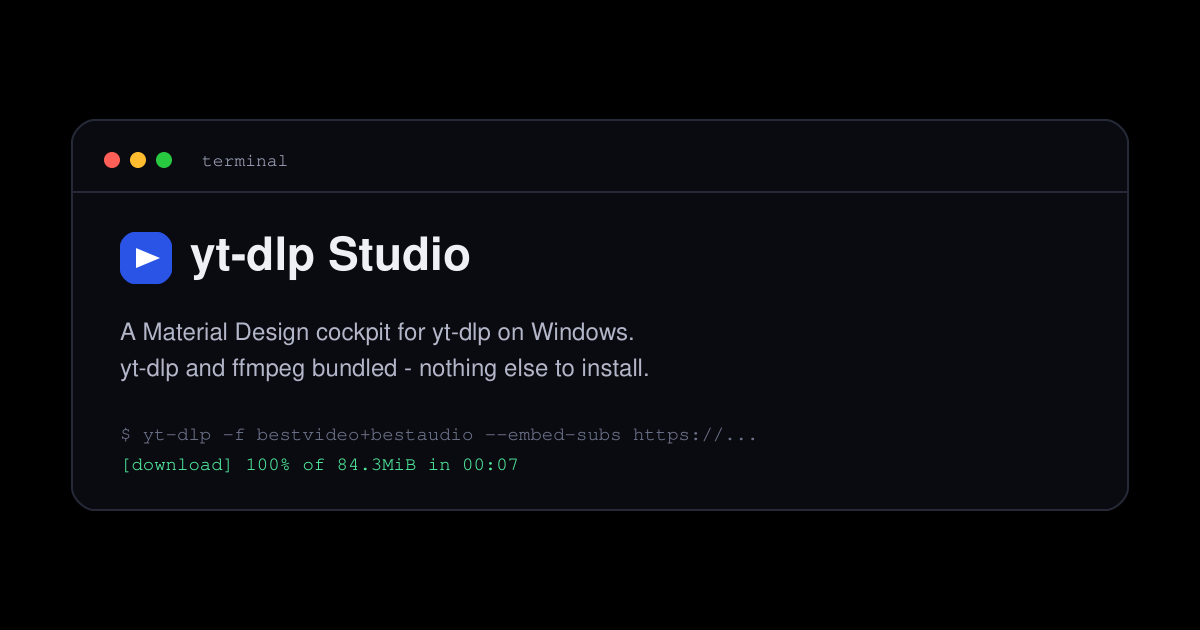
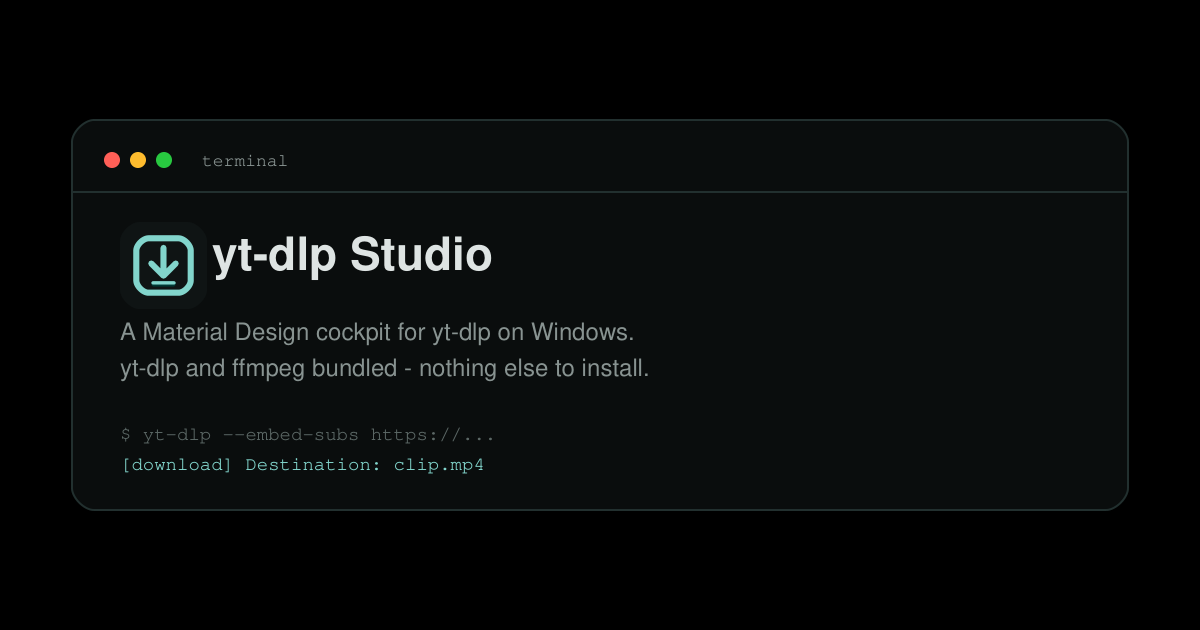
Make the site wear the product's own mark, and drop an invented figure
The embed graphic drew a blue badge with a play triangle while the application
icon is a teal download arrow, so a link preview and the installed app announced
two different products. It now uses the mark's exact geometry read from the
committed master rather than an approximation, and the accent colour across the
whole site follows the application palette in every theme block.

Light mode uses a darker teal of the same hue rather than the raw brand colour,
because white text on the brand teal does not meet contrast on a button. A mark
does not need to pass contrast; a button people have to read does.

The hero terminal also claimed a download of 84.3MiB in seven seconds. Nobody
measured that. It now shows generic output, because an invented benchmark in a
marketing image is still an invented benchmark.

一個產品兩個樣，人哋撳落嚟仲以為裝錯咗嘢。而家個 icon 同個網頁終於一致。
嗰句「七秒download完」係作出嚟嘅，冇人度過，所以拎走。

diff --git a/site/assets/theme.css b/site/assets/theme.css
@@ -15,17 +15,17 @@
   --text-faint: #7b8094;
   --border: #e2e5ee;
   --border-strong: #c9cee0;
-  --accent: #2954e6;
-  --accent-hover: #1f42c4;
+  --accent: #0f766e;
+  --accent-hover: #0b5c56;
   --accent-contrast: #ffffff;
-  --accent-tint: #dfe8ff;
+  --accent-tint: #dcf3f0;
   --ok: #1f8a4c;
   --ok-tint: #e3f6ea;
   --warn: #9a6300;
   --warn-tint: #fff3da;
   --pill-bg: #eef1f8;
   --pill-text: #383e52;
-  --focus-ring: #2954e6;
+  --focus-ring: #0f766e;
   --shadow: 0 1px 2px rgba(20, 22, 31, 0.06), 0 8px 24px rgba(20, 22, 31, 0.08);
   --shadow-sm: 0 1px 2px rgba(20, 22, 31, 0.08);
   --radius-sm: 8px;
@@ -34,7 +34,7 @@
   --toast-bg: #14161f;
   --toast-text: #ffffff;
   --code-green: #3ddc84;
-  --code-blue: #7aa2ff;
+  --code-blue: #82d5cc;
   --code-text: #d7dae6;
   --scrollbar: #c9cee0;
 }
@@ -51,23 +51,23 @@
     --text-faint: #82869c;
     --border: #262a38;
     --border-strong: #343a4d;
-    --accent: #6f8fff;
-    --accent-hover: #8aa4ff;
-    --accent-contrast: #0a0b10;
-    --accent-tint: #1c2646;
+    --accent: #82d5cc;
+    --accent-hover: #9fe0d9;
+    --accent-contrast: #003733;
+    --accent-tint: #16302d;
     --ok: #45cf85;
     --ok-tint: #123423;
     --warn: #e7b756;
     --warn-tint: #3a2c0c;
     --pill-bg: #1d2130;
     --pill-text: #c7cbdc;
-    --focus-ring: #8aa4ff;
+    --focus-ring: #82d5cc;
     --shadow: 0 1px 2px rgba(0, 0, 0, 0.4), 0 8px 24px rgba(0, 0, 0, 0.45);
     --shadow-sm: 0 1px 2px rgba(0, 0, 0, 0.4);
     --toast-bg: #eef0f6;
     --toast-text: #14161f;
     --code-green: #4ee69a;
-    --code-blue: #8fb0ff;
+    --code-blue: #82d5cc;
     --code-text: #cfd3e4;
     --scrollbar: #343a4d;
   }
@@ -84,23 +84,23 @@
   --text-faint: #82869c;
   --border: #262a38;
   --border-strong: #343a4d;
-  --accent: #6f8fff;
-  --accent-hover: #8aa4ff;
-  --accent-contrast: #0a0b10;
-  --accent-tint: #1c2646;
+  --accent: #82d5cc;
+  --accent-hover: #9fe0d9;
+  --accent-contrast: #003733;
+  --accent-tint: #16302d;
   --ok: #45cf85;
   --ok-tint: #123423;
   --warn: #e7b756;
   --warn-tint: #3a2c0c;
   --pill-bg: #1d2130;
   --pill-text: #c7cbdc;
-  --focus-ring: #8aa4ff;
+  --focus-ring: #82d5cc;
   --shadow: 0 1px 2px rgba(0, 0, 0, 0.4), 0 8px 24px rgba(0, 0, 0, 0.45);
   --shadow-sm: 0 1px 2px rgba(0, 0, 0, 0.4);
   --toast-bg: #eef0f6;
   --toast-text: #14161f;
   --code-green: #4ee69a;
-  --code-blue: #8fb0ff;
+  --code-blue: #82d5cc;
   --code-text: #cfd3e4;
   --scrollbar: #343a4d;
 }

diff --git a/site/index.html b/site/index.html
@@ -20,7 +20,7 @@
 <meta name="twitter:title" content="yt-dlp Studio">
 <meta name="twitter:description" content="A Material Design cockpit for yt-dlp on Windows, with yt-dlp and ffmpeg bundled in.">
 <meta name="twitter:image" content="https://ding-ding-projects.github.io/material-ytdlp/social-preview.png">
-<meta name="theme-color" content="#2954e6">
+<meta name="theme-color" content="#0f766e">
 
 <link rel="stylesheet" href="assets/theme.css">
 </head>
@@ -120,7 +120,7 @@
         <div class="terminal-body"><span class="prompt">$</span> yt-dlp -f bestvideo+bestaudio --embed-subs <span class="path">https://…</span>
 <span class="prompt">[info]</span> Downloading webpage
 <span class="prompt">[info]</span> Merging formats into <span class="path">clip.mp4</span>
-<span class="ok">[download] 100% of 84.3MiB in 00:07</span>
+<span class="ok">[download] 100% — done</span>
 <span class="prompt">$</span> <span class="prompt">_</span></div>
       </div>
     </div>

diff --git a/site/docs.html b/site/docs.html
@@ -20,7 +20,7 @@
 <meta name="twitter:title" content="yt-dlp Studio Documentation">
 <meta name="twitter:description" content="Bundled binaries, building from source, and the unsigned-installer warning, explained.">
 <meta name="twitter:image" content="https://ding-ding-projects.github.io/material-ytdlp/social-preview.png">
-<meta name="theme-color" content="#2954e6">
+<meta name="theme-color" content="#0f766e">
 
 <link rel="stylesheet" href="assets/theme.css">
 </head>
